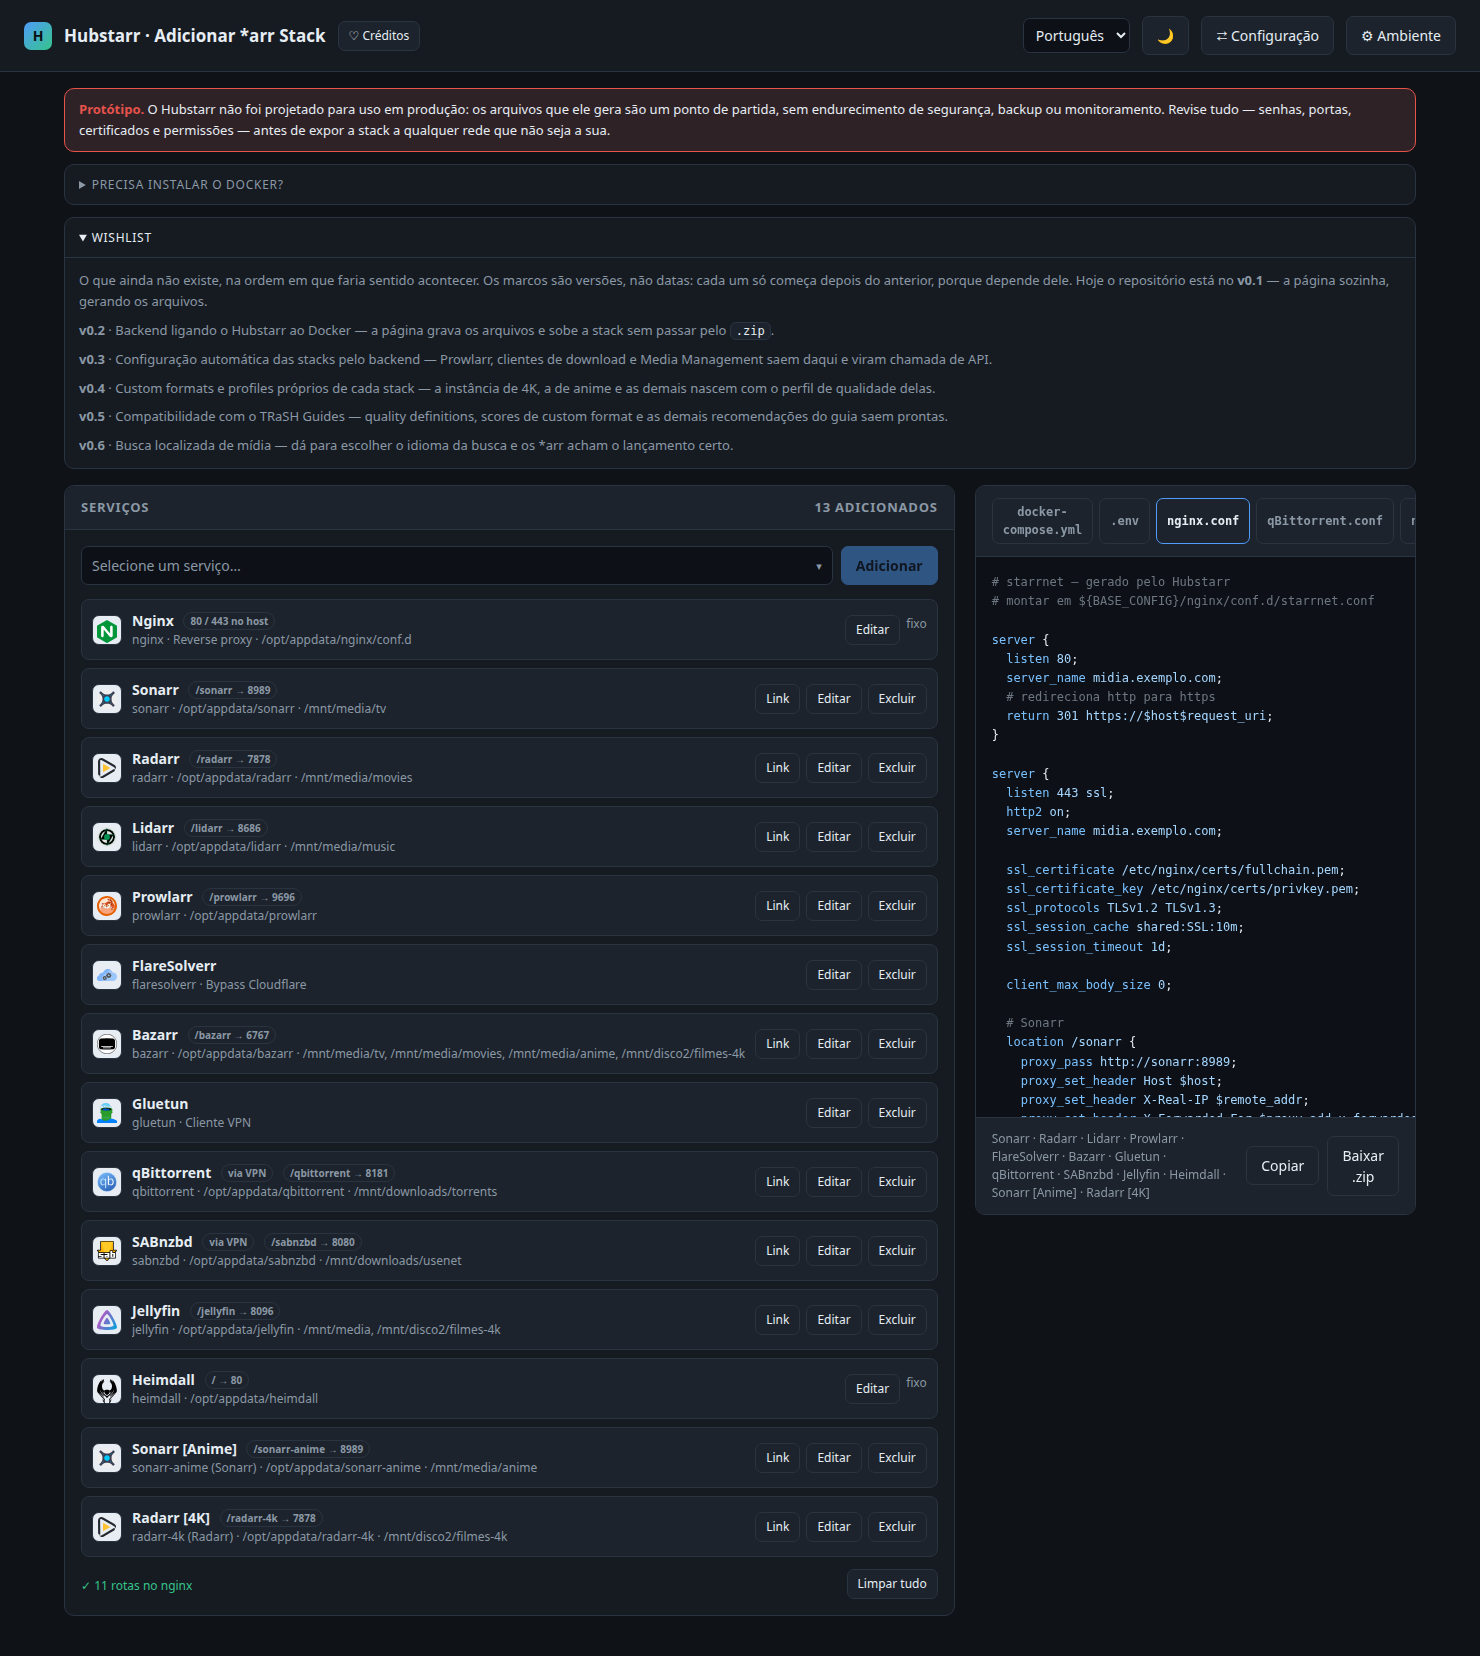
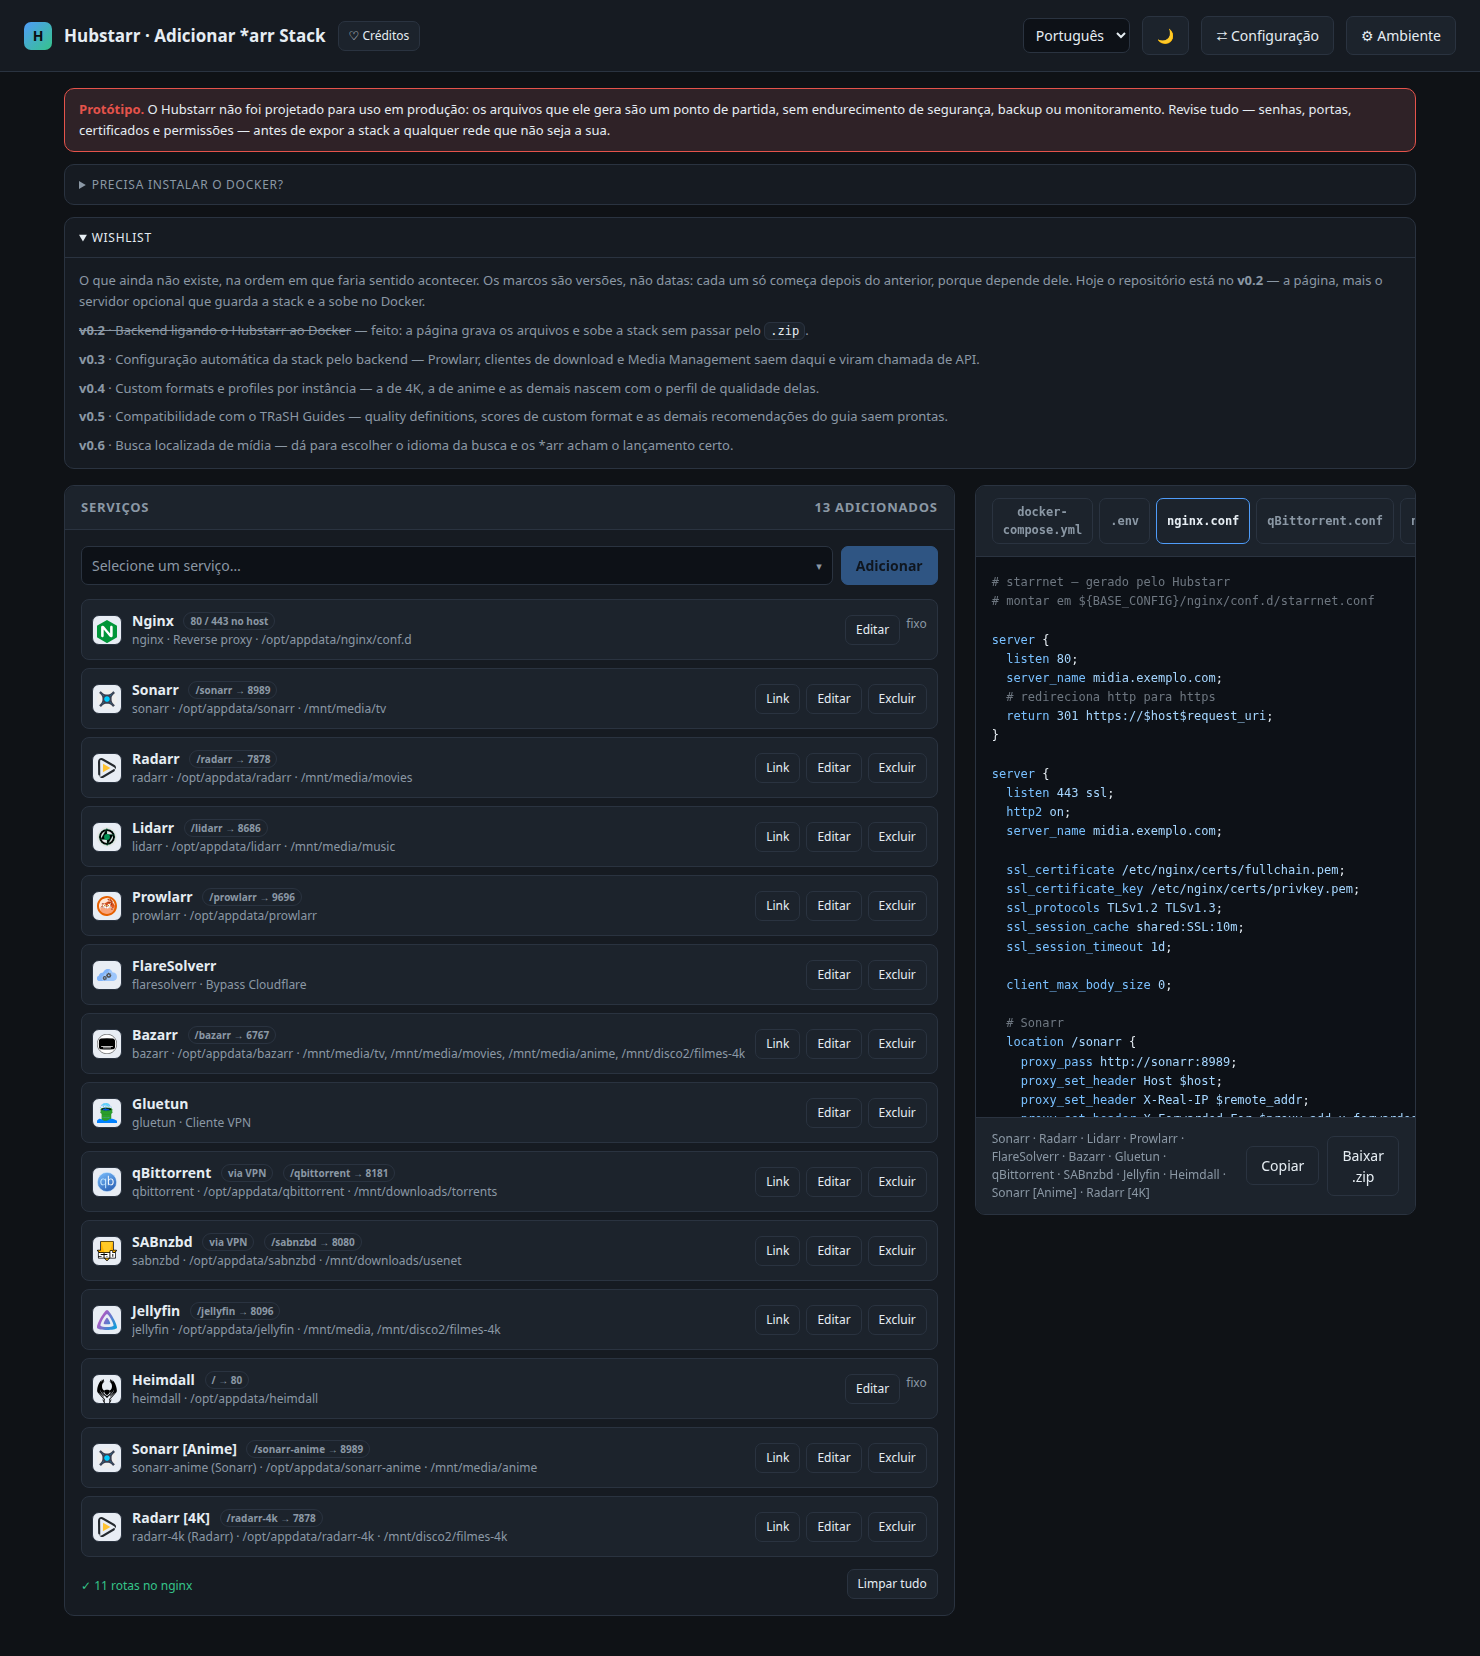
Atualiza a Wishlist da página para o v0.2

Changed region(s): [[0.1865, 0.1848, 0.6527, 0.2464], [0.0622, 0.154, 0.1243, 0.1848], [0.9014, 0.154, 0.9324, 0.1848]]

diff --git a/hubstarr.html b/hubstarr.html
@@ -623,10 +623,10 @@ const I18N = {
     '<p>Com o Docker no lugar, descompacte o <code>.zip</code> e suba a stack de dentro da pasta dos arquivos:</p>'+
     '<pre>docker compose up -d</pre>',
   'wish.h':'Wishlist',
-  'wish.body':'<p>O que ainda não existe, na ordem em que faria sentido acontecer. Os marcos são versões, não datas: cada um só começa depois do anterior, porque depende dele. Hoje o repositório está no <b>v0.1</b> — a página sozinha, gerando os arquivos.</p>'+
-    '<p><b>v0.2</b> · Backend ligando o Hubstarr ao Docker — a página grava os arquivos e sobe a stack sem passar pelo <code>.zip</code>.</p>'+
-    '<p><b>v0.3</b> · Configuração automática das stacks pelo backend — Prowlarr, clientes de download e Media Management saem daqui e viram chamada de API.</p>'+
-    '<p><b>v0.4</b> · Custom formats e profiles próprios de cada stack — a instância de 4K, a de anime e as demais nascem com o perfil de qualidade delas.</p>'+
+  'wish.body':'<p>O que ainda não existe, na ordem em que faria sentido acontecer. Os marcos são versões, não datas: cada um só começa depois do anterior, porque depende dele. Hoje o repositório está no <b>v0.2</b> — a página, mais o servidor opcional que guarda a stack e a sobe no Docker.</p>'+
+    '<p><s><b>v0.2</b> · Backend ligando o Hubstarr ao Docker</s> — feito: a página grava os arquivos e sobe a stack sem passar pelo <code>.zip</code>.</p>'+
+    '<p><b>v0.3</b> · Configuração automática da stack pelo backend — Prowlarr, clientes de download e Media Management saem daqui e viram chamada de API.</p>'+
+    '<p><b>v0.4</b> · Custom formats e profiles por instância — a de 4K, a de anime e as demais nascem com o perfil de qualidade delas.</p>'+
     '<p><b>v0.5</b> · Compatibilidade com o TRaSH Guides — quality definitions, scores de custom format e as demais recomendações do guia saem prontas.</p>'+
     '<p><b>v0.6</b> · Busca localizada de mídia — dá para escolher o idioma da busca e os *arr acham o lançamento certo.</p>',
   'cfg.h':'⇄ Configuração',
@@ -941,10 +941,10 @@ const I18N = {
     '<p>With Docker in place, unzip the <code>.zip</code> and bring the stack up from inside the files folder:</p>'+
     '<pre>docker compose up -d</pre>',
   'wish.h':'Wishlist',
-  'wish.body':'<p>What is not there yet, in the order it would make sense to happen. The milestones are versions, not dates: each one only starts after the previous, because it depends on it. The repository is at <b>v0.1</b> today — the page alone, generating the files.</p>'+
-    '<p><b>v0.2</b> · A backend wiring Hubstarr to Docker — the page writes the files and brings the stack up without going through the <code>.zip</code>.</p>'+
+  'wish.body':'<p>What is not there yet, in the order it would make sense to happen. The milestones are versions, not dates: each one only starts after the previous, because it depends on it. The repository is at <b>v0.2</b> today — the page, plus the optional server that keeps the stack and brings it up on Docker.</p>'+
+    '<p><s><b>v0.2</b> · A backend wiring Hubstarr to Docker</s> — done: the page writes the files and brings the stack up without going through the <code>.zip</code>.</p>'+
     '<p><b>v0.3</b> · Automatic stack configuration from the backend — Prowlarr, download clients and Media Management leave this screen and become API calls.</p>'+
-    '<p><b>v0.4</b> · Custom formats and profiles per stack — the 4K instance, the anime one and the rest are born with their own quality profile.</p>'+
+    '<p><b>v0.4</b> · Custom formats and profiles per instance — the 4K one, the anime one and the rest are born with their own quality profile.</p>'+
     '<p><b>v0.5</b> · Compatibility with the TRaSH Guides — quality definitions, custom format scores and the rest of the guide\'s recommendations come ready.</p>'+
     '<p><b>v0.6</b> · Localized media search — the search language can be picked and the *arr apps find the right release.</p>',
   'cfg.h':'⇄ Configuration',
@@ -1257,10 +1257,10 @@ const I18N = {
     '<p>Con Docker en su sitio, descomprime el <code>.zip</code> y levanta la stack desde dentro de la carpeta de los archivos:</p>'+
     '<pre>docker compose up -d</pre>',
   'wish.h':'Wishlist',
-  'wish.body':'<p>Lo que todavía no existe, en el orden en que tendría sentido que ocurra. Los hitos son versiones, no fechas: cada uno solo empieza después del anterior, porque depende de él. Hoy el repositorio está en <b>v0.1</b> — la página sola, generando los archivos.</p>'+
-    '<p><b>v0.2</b> · Un backend que conecte Hubstarr con Docker — la página graba los archivos y levanta la stack sin pasar por el <code>.zip</code>.</p>'+
-    '<p><b>v0.3</b> · Configuración automática de las stacks desde el backend — Prowlarr, clientes de descarga y Media Management salen de aquí y son llamadas de API.</p>'+
-    '<p><b>v0.4</b> · Custom formats y profiles propios de cada stack — la instancia de 4K, la de anime y las demás nacen con su perfil de calidad.</p>'+
+  'wish.body':'<p>Lo que todavía no existe, en el orden en que tendría sentido que ocurra. Los hitos son versiones, no fechas: cada uno solo empieza después del anterior, porque depende de él. Hoy el repositorio está en <b>v0.2</b> — la página, más el servidor opcional que guarda la stack y la levanta en Docker.</p>'+
+    '<p><s><b>v0.2</b> · Un backend que conecte Hubstarr con Docker</s> — hecho: la página graba los archivos y levanta la stack sin pasar por el <code>.zip</code>.</p>'+
+    '<p><b>v0.3</b> · Configuración automática de la stack desde el backend — Prowlarr, clientes de descarga y Media Management salen de aquí y son llamadas de API.</p>'+
+    '<p><b>v0.4</b> · Custom formats y profiles por instancia — la de 4K, la de anime y las demás nacen con su perfil de calidad.</p>'+
     '<p><b>v0.5</b> · Compatibilidad con TRaSH Guides — quality definitions, scores de custom format y el resto de las recomendaciones de la guía ya listas.</p>'+
     '<p><b>v0.6</b> · Búsqueda localizada de medios — se puede elegir el idioma de la búsqueda y los *arr encuentran el lanzamiento correcto.</p>',
   'cfg.h':'⇄ Configuración',
